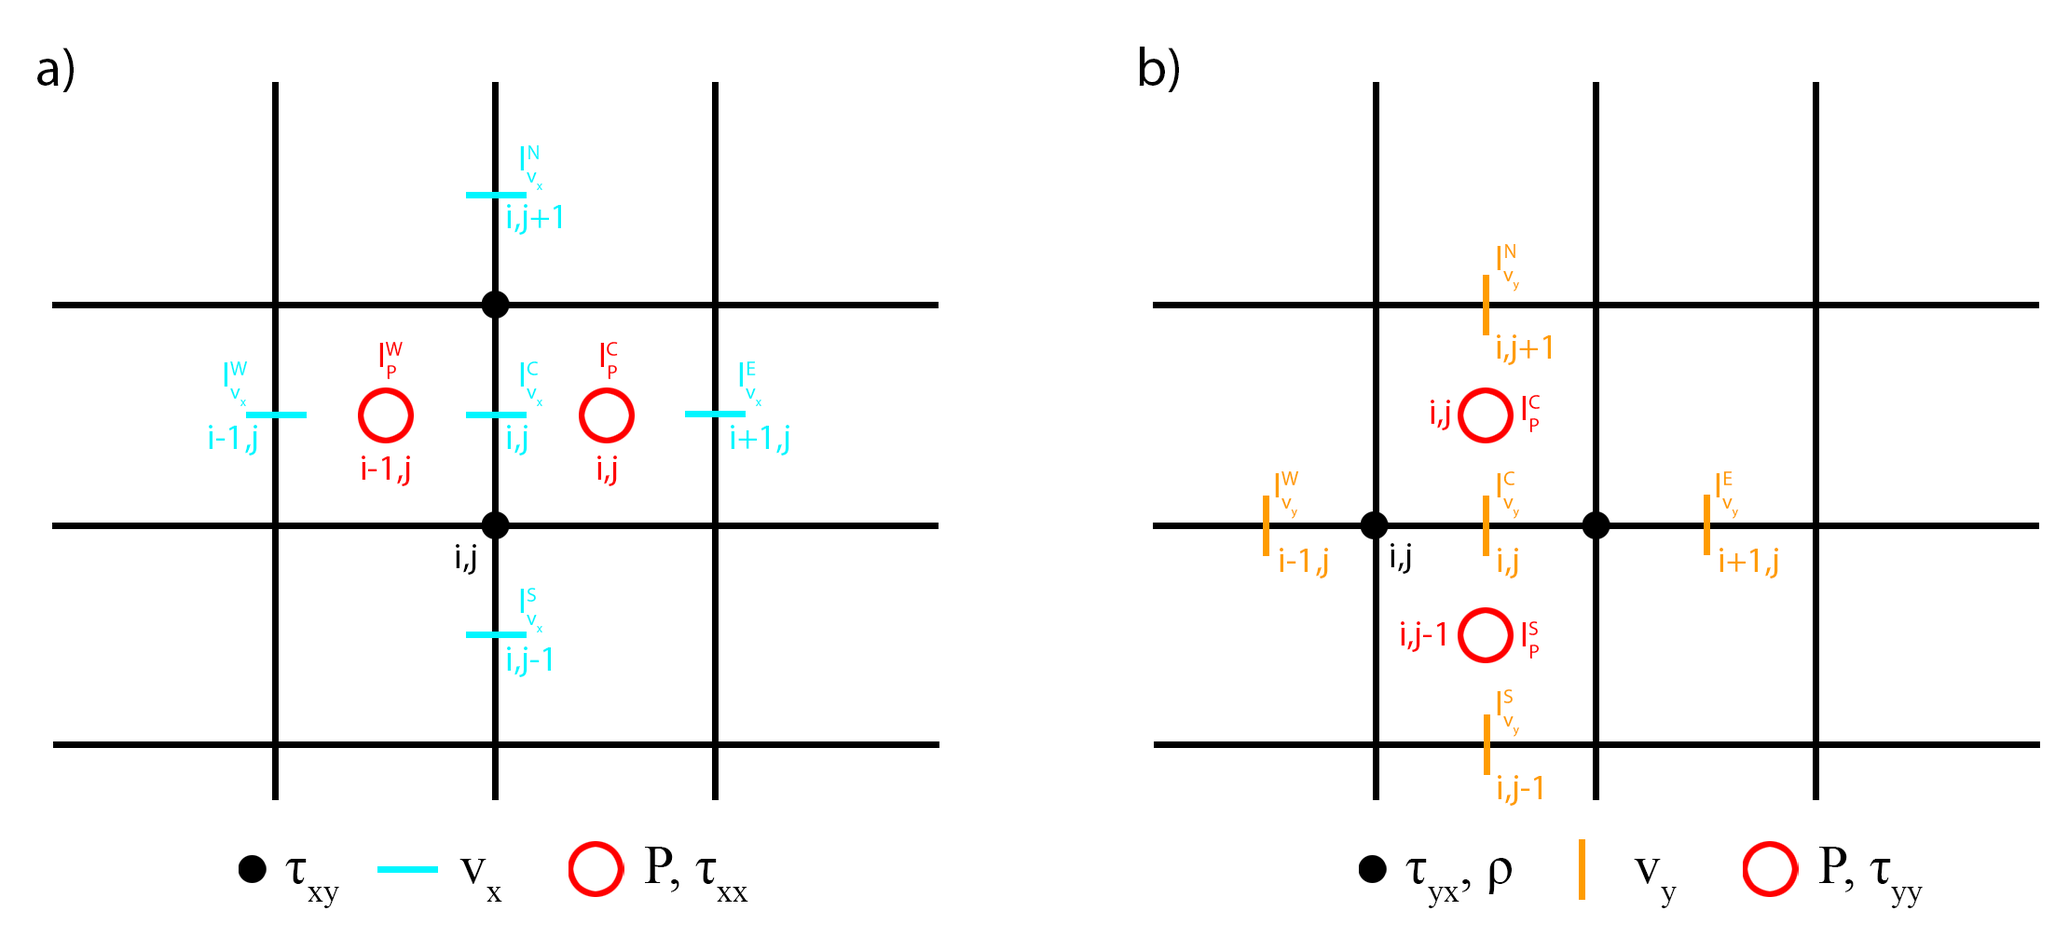
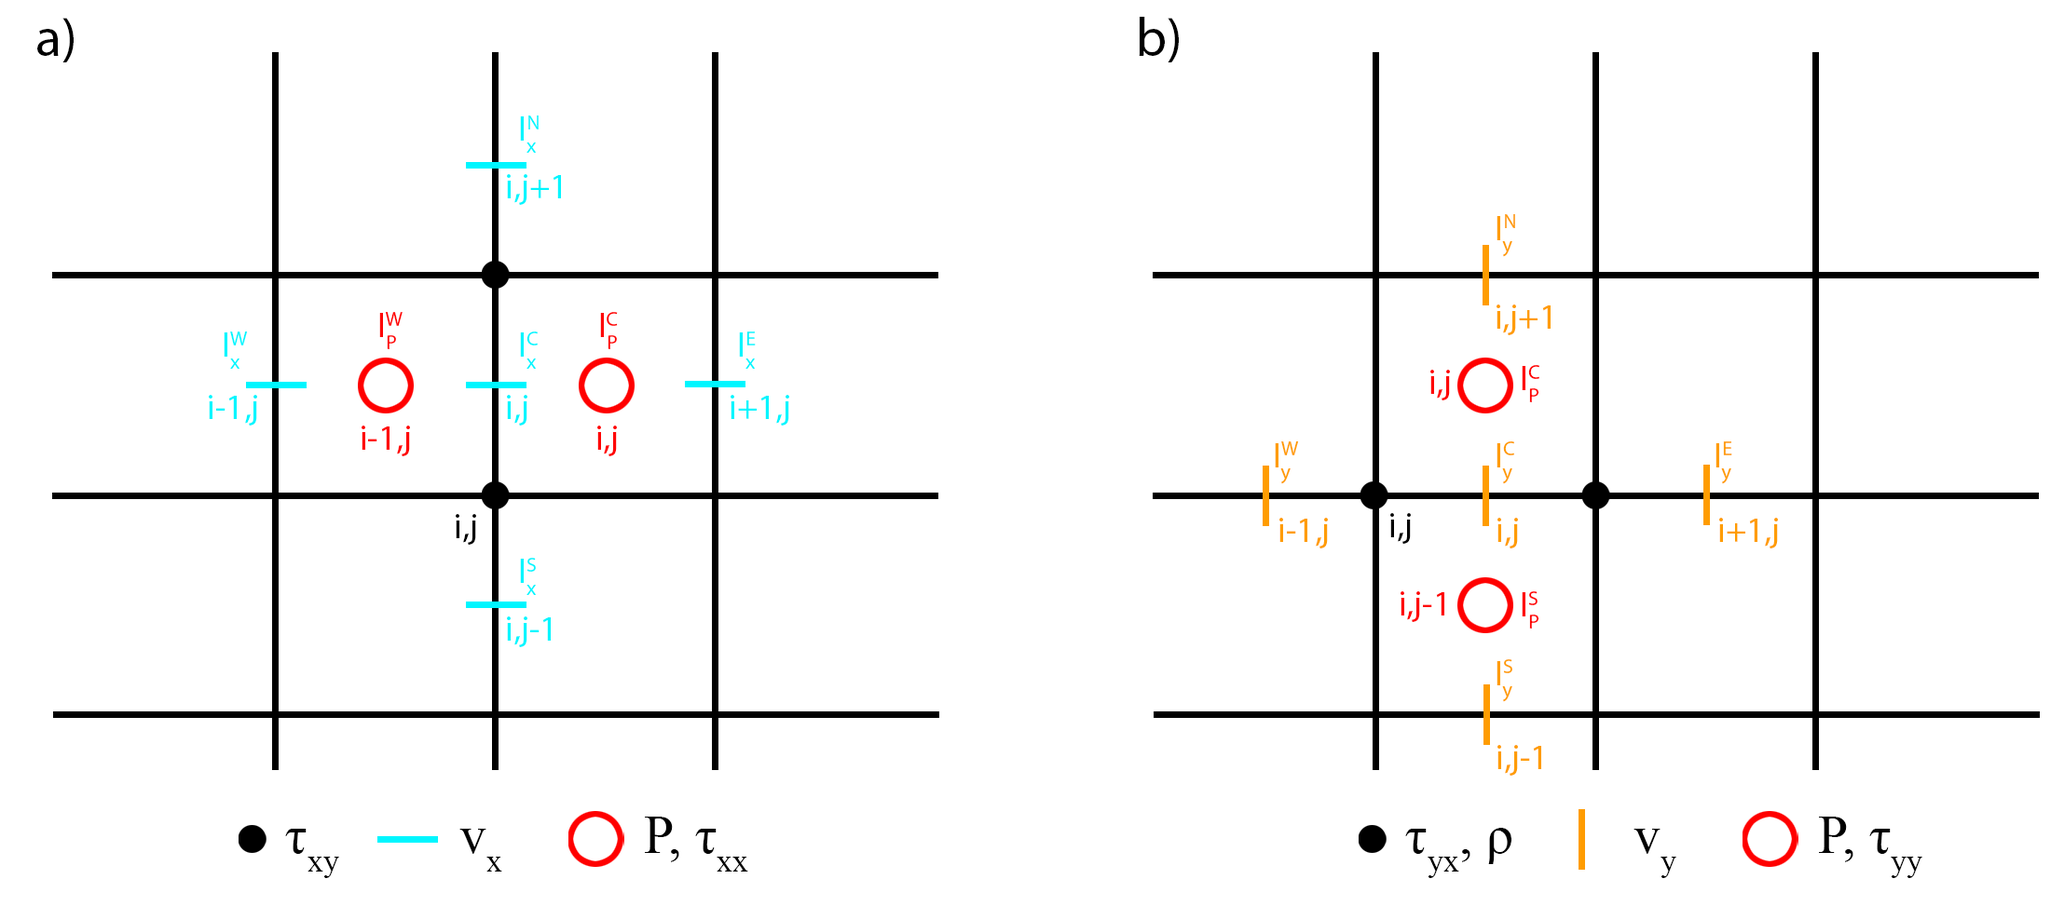
minor update

diff --git a/docs/src/man/MomentumTwoD.md b/docs/src/man/MomentumTwoD.md
@@ -6,30 +6,19 @@ $\begin{equation}
 0 = -\frac{\partial{P}}{\partial{x_i}} + \frac{\partial{\tau_{ij}}}{\partial{x_j}} + \rho g_i, 
 \end{equation}$
 
-where 
-
-- $P$ is the pressure [Pa], 
-- $\rho$ is the density [kg/m³], 
-- $g_i$ is the gravitational acceleration [m/s²], 
-- $\frac{\partial}{\partial x_i}$ is the spatial derivative in the $x_i$-direction, and 
-- $\tau_{ij}$ is the deviatoric stress tensor [Pa], defined as:
+where $P$ is the pressure [Pa], $\rho$ is the density [kg/m³], $g_i$ is the gravitational acceleration [m/s²], $\frac{\partial}{\partial x_i}$ is the spatial derivative in the $x_i$-direction, and $\tau_{ij}$ is the deviatoric stress tensor [Pa], defined as:
 
 $\begin{equation}
 \tau_{ij} = 2\eta \dot{\varepsilon}_{ij}, 
 \end{equation}$
 
-where 
-
-- $\eta$ is the dynamic viscosity [Pa·s], and 
-- $\dot{\varepsilon}_{ij}$ is the strain-rate tensor [1/s], given by:
+where $\eta$ is the dynamic viscosity [Pa·s], and $\dot{\varepsilon}_{ij}$ is the strain-rate tensor [1/s], given by:
 
 $\begin{equation}
 \dot{\varepsilon}_{ij} = \frac{1}{2} \left( \frac{\partial{v_i}}{\partial{x_j}} + \frac{\partial{v_j}}{\partial{x_i}} \right),
 \end{equation}$
 
-where 
-
-- $v_i$ is the velocity [m/s] in the $i$-th direction.
+where $v_i$ is the velocity [m/s] in the $i$-th direction.
 
 The Stokes equation yields two equations for the three unknowns $v_x$, $v_y$, and $P$. An additional equation is therefore required: the mass conservation equation.
 
@@ -45,36 +34,34 @@ To numerically solve Equations (1) and (4), the spatial domain must be discretiz
 
 ![MomentumGrid](../assets/MomentumGrid.png)
 
-**Figure 1. Staggered finite difference grid for the momentum equation and mass conservation equation.** The horizontal and vertical velocities require *ghost nodes* at the North, South, East, and West boundaries, respectively.
+**Figure 1. Staggered finite difference grid for the momentum and mass conservation equation.** The horizontal and vertical velocities require *ghost nodes* at the North, South, East, and West boundaries, respectively.
 
-A staggered grid enables conservation of stress between adjacent grid points and requires careful placement of the associated variables. Each equation is evaluated at the central node of its respective variable grid, requiring values from neighboring nodes defined by the numerical stencil. The locations of these points in a finite difference scheme are determined by a numerical stencil. 
+A staggered grid enables conservation of stress between adjacent grid points and requires careful placement of the associated variables. Each equation is evaluated at the central node of its respective variable grid, requiring values from neighboring nodes defined by the numerical stencil. The locations of these points in a finite difference scheme are determined by a numerical stencil. Thus, care needs to be taken generating the index for the variables. For the 2D Stokes equation in combination with the 2D mass conservation equation, different numerical stencils need to be considered, especially for cases of constant and variable viscosity. The stencils for each equation assuming constant or variable viscosity are discussed in more detail below. The spatial discretization relies on central finite differences to approximate both the velocity and pressure gradients.
 
-For the 2D Stokes equation in combination with the 2D mass conservation equation, different numerical stencils need to be considered, especially for cases of constant and variable viscosity. The stencils for each equation assuming constant or variable viscosity are discussed in more detail below. The spatial discretization relies on central finite differences to approximate both the velocity and pressure gradients.
-
-The indices of the adjacent points, which determine the positions of the coefficients in the coefficient matrix, can be expressed using the local indices $i$ and $j$ of each numerical grid. Because a staggered grid is used, each variable field ($v_x$, $v_y$, $P$, $\tau_{ij}$, $\eta$, and $\rho$) is defined on its own grid and therefore possesses its own local indices $(i,j)$ and a variable-specific global index. The local indices describe the position of the computational node of each corresponding variable grid in the horizontal and vertical directions, respectively. The global indices assume a horizontal numbering through the model domain; that is, the numbering proceeds row by row from the bottom to the top. The index for the adjacent centroid points follows the indexing convention described in the [2D heat diffusion equation](./DiffTwoD.md). 
+The indices of the adjacent points, which determine the positions of the coefficients in the coefficient matrix, can be expressed using the local indices $i$ and $j$ of each numerical grid. Because a staggered grid is used, each variable field ($v_x$, $v_y$, $P$, $\tau_{ij}$, $\eta$, and $\rho$) is defined on its own grid and therefore possesses its own local indices $(i,j)$ and a variable-specific global index. The local indices describe the position of the computational node of each corresponding variable grid in the horizontal and vertical directions, respectively. The global index assumes a horizontal numbering through the model domain; that is, the numbering proceeds row by row from the bottom to the top. The indices for the adjacent centroid points follows the indexing convention described in the [2D heat diffusion equation](./DiffTwoD.md). 
 
 For clarity, two types of global indices are used below:
 
 - variable-specific global indices, which number the nodes of a single grid (e.g. centroids or vertices), 
 - system global indices, which number the unknowns in the assembled linear system.
 
-The variable-specific global indices indicate the position relative to the central reference point (e.g., $N$, $S$).
+The variable-specific global index indicates the position relative to the central reference point (e.g., $N$, $S$). 
 
-The global index for density is defined by consecutively numbering the centroids: 
+The global index for density, for example, is defined by consecutively numbering the centroids: 
 
 $\begin{equation}
 I^\textrm{C}_c = \left(j-1\right) nc_x + i, 
 \end{equation}$
 
-where $i$ and $j$ are the local indices in the horizontal and vertical direction, respectively, and $nc_x$ is the total number of centroids in the horizontal direction. Here, it is important to distinguish between the centroid index used for density and the system index used for pressure, because pressure is part of the consecutively numbered unknowns in the assembled system of equations (see below). 
+where $nc_x$ is the total number of centroids in the horizontal direction. Here, it is important to distinguish between the centroid index used for density and the system global index used for pressure, because pressure is part of the consecutively numbered unknowns in the assembled system of equations (see below). 
 
-The global index for the shear stress is defined by consecutively numbering the vertices:
+The global index for the shear stress, for examples, is defined by consecutively numbering the vertices:
 
 $\begin{equation}
 I^\textrm{C}_v = \left(j-1\right) nv_x + i,
 \end{equation}$
 
-where $i$ and $j$ are the local indices in the horizontal and vertical direction, respectively, and  $nv_x$ is the total number of vertices in the horizontal direction. 
+where $nv_x$ is the total number of vertices in the horizontal direction. 
 
 The global indexing for the unknown variables in the system of equations proceeds by:
 
@@ -82,7 +69,7 @@ The global indexing for the unknown variables in the system of equations proceed
 
 2. Followed by the $y$-component of momentum (unknown $v_y$),
 
-3. And finally the mass conservation equations (unknown $P$).
+3. And finally the mass conservation equation (unknown $P$).
 
 The numbering $I$ for each equation is then defined as: 
 
@@ -106,7 +93,7 @@ I^\textrm{C}_{p} = \left(nv_x \cdot nc_y + nc_x \cdot nv_y + 1\right) : \left(nv
 
 This results in a consecutive global numbering of the system of equations for the $x$- and $y$-component of the momentum and the mass conservation equation. Each discretized equation corresponds to a row $I^\textrm{C}_{x,y,p}$ in the coefficient matrix. 
 
-> Note: The index $I^\textrm{C}_{x,y,p}$ for the system of equations is not the same as the consecutive numbering of the velocity and pressure nodes $I^j$, which only considers the global numbering for one single variable. 
+> Note: The index $I^\textrm{C}_{x,y,p}$ for the system of equations is not the same as the consecutive numbering of the velocity and pressure nodes $I^\textrm{C}$, which only considers the global numbering for one single variable. 
 
 The nonzero entries within a given matrix row appear at column positions corresponding to the neighboring variables involved in the stencil. These column indices are denoted by $I^k_{x,y,mc}$, where $k \in \{\textrm{S}, \textrm{SW}, \textrm{SE}, \textrm{W}, \textrm{C}, \textrm{E}, \textrm{NW}, \textrm{NE}, \textrm{N}\}$. The column index of each coefficient is computed relative to the central row index $I^\textrm{C}_{x,y,p}$. Thereby, the coefficient indices slightly vary for constant and variable viscosity cases. Note that cross terms involving $v_y$ and $v_x$ are indexed using the $y$- and $x$-component system indices, reflecting the staggered grid arrangement.
 
@@ -494,7 +481,7 @@ $\begin{equation}\begin{gather*}
 Reorganized:
 
 $\begin{equation}\begin{gather*}
-& C_PP_{I^\textrm{C}_p}+S_PP_{I^\textrm{S}_p} + \\ & S_yv_{y,I^\textrm{S}_y}+SW_yv_{x,I^\textrm{SW}_y}+SE_yv_{x,I^\textrm{SE}_y}+W_yv_{y,I^\textrm{W}_y}+ \\ & C_yv_{y,I^\textrm{C}_y} + \\ & E_yv_{y,I^\textrm{E}_y} + NW_yv_{x,I^\textrm{NW}_y} + NE_yv_{x,I^\textrm{NE}_y} + N_yv_{y,I^\textrm{N}_y} = \\ & -\frac{\rho_{I^\textrm{C}_c}+\rho_{I^\textrm{S}_c}}{2} g_y, 
+& S_PP_{I^\textrm{S}_p} +C_PP_{I^\textrm{C}_p}+ \\ & S_yv_{y,I^\textrm{S}_y}+SW_yv_{x,I^\textrm{SW}_y}+SE_yv_{x,I^\textrm{SE}_y}+W_yv_{y,I^\textrm{W}_y}+ \\ & C_yv_{y,I^\textrm{C}_y} + \\ & E_yv_{y,I^\textrm{E}_y} + NW_yv_{x,I^\textrm{NW}_y} + NE_yv_{x,I^\textrm{NE}_y} + N_yv_{y,I^\textrm{N}_y} = \\ & -\frac{\rho_{I^\textrm{C}_c}+\rho_{I^\textrm{S}_c}}{2} g_y, 
 \end{gather*}\end{equation}$
 
 with coefficients:
@@ -560,7 +547,7 @@ where
 - $\mathbf{x}$ is the solution vector, and 
 - $\mathbf{b}$ is the known right-hand side.
 
-The solution vector contains the horizontal and vertical velocity as well as the pressure field, whose ordering follows the global numbering of $I^\textrm{C}_x$, $I^\textrm{C}_y$, and $I^\textrm{C}_p$ as defined in Equations (7)–(9). The right-hand side contains the buoyancy term for the $y$-component of the momentum equation. Depending on the chosen solution strategy, it may also include contributions from the boundary conditions. 
+The solution vector contains the horizontal and vertical velocity as well as the pressure field, whose ordering follows the system global numbering of $I^\textrm{C}_x$, $I^\textrm{C}_y$, and $I^\textrm{C}_p$ as defined in Equations (7)-(9). The right-hand side contains the buoyancy term for the $y$-component of the momentum equation. Depending on the chosen solution strategy, it may also include contributions from the boundary conditions. 
 
 The coefficient matrix $\mathbf{K_{I^\textrm{C}_{i},I^k_{j}}}$ varies depending on the state of the viscosity. The structure of the coefficient matrix for a certain grid resolution and boundary condition is shown in Figures (5) and (6).  
 
@@ -605,7 +592,7 @@ Or in the terms of the unknown variables:
 *$x$-component*
 
 $\begin{equation}\begin{gather*}
-& r_{I^\textrm{C}_x} = C_pP_{I^{\textrm{C}}_{p}} + W_pP_{I^{\textrm{W}}_{p}} + \\ & S_xv_{x,I^{\textrm{S}}_{x}} +  W_xv_{x,I^{\textrm{W}}_{x}} + C_xv_{x,I^{\textrm{C}}_{x}} + E_xv_{x,I^{\textrm{E}}_{x}} + N_xv_{x,I^{\textrm{N}}_{x}}, 
+& r_{I^\textrm{C}_x} = W_pP_{I^{\textrm{W}}_{p}} + C_pP_{I^{\textrm{C}}_{p}} + \\ & S_xv_{x,I^{\textrm{S}}_{x}} +  W_xv_{x,I^{\textrm{W}}_{x}} + C_xv_{x,I^{\textrm{C}}_{x}} + E_xv_{x,I^{\textrm{E}}_{x}} + N_xv_{x,I^{\textrm{N}}_{x}}, 
 \end{gather*}\end{equation}$
 
 *$y$-component*
@@ -619,13 +606,13 @@ $\begin{equation}\begin{gather*}
 *$x$-component* 
 
 $\begin{equation}\begin{gather*}
-& r_{I^\textrm{C}_x} = W_PP_{I^\textrm{W}_p}+C_PP_{I^\textrm{C}_p} + \\ &  S_xv_{x,I^\textrm{S}_x}+SW_xv_{y,I^\textrm{SW}_x}+SE_xv_{y,I^\textrm{SE}_x}+W_xv_{x,I^\textrm{W}_x}+ C_xv_{x,I^\textrm{C}_x} + E_xv_{x,I^\textrm{E}_x} + NW_xv_{y,I^\textrm{NW}_x} + NE_xv_{y,I^\textrm{NE}_x} + N_xv_{x,I^\textrm{N}_x}, 
+& r_{I^\textrm{C}_x} = W_PP_{I^\textrm{W}_p}+C_PP_{I^\textrm{C}_p} + \\ &  S_xv_{x,I^\textrm{S}_x}+SW_xv_{y,I^\textrm{SW}_x}+SE_xv_{y,I^\textrm{SE}_x}+W_xv_{x,I^\textrm{W}_x}+ \\ & C_xv_{x,I^\textrm{C}_x} + E_xv_{x,I^\textrm{E}_x} + NW_xv_{y,I^\textrm{NW}_x} + NE_xv_{y,I^\textrm{NE}_x} + N_xv_{x,I^\textrm{N}_x}, 
 \end{gather*}\end{equation}$
 
 *$y$-component* 
 
 $\begin{equation}\begin{gather*}
-& r_{I^\textrm{C}_y} = C_PP_{I^\textrm{C}_p}+S_PP_{I^\textrm{S}_p} + \\ & S_yv_{y,I^\textrm{S}_y}+SW_yv_{x,I^\textrm{SW}_y}+SE_yv_{x,I^\textrm{SE}_y}+W_yv_{y,I^\textrm{W}_y}+ C_yv_{y,I^\textrm{C}_y} + E_yv_{y,I^\textrm{E}_y} + NW_yv_{x,I^\textrm{NW}_y} + NE_yv_{x,I^\textrm{NE}_y} + N_yv_{y,I^\textrm{N}_y} + \frac{\rho_{I^\textrm{C}_c}+\rho_{I^\textrm{S}_c}}{2} g_y, 
+& r_{I^\textrm{C}_y} = S_PP_{I^\textrm{S}_p} +C_PP_{I^\textrm{C}_p}+ \\ & S_yv_{y,I^\textrm{S}_y}+SW_yv_{x,I^\textrm{SW}_y}+SE_yv_{x,I^\textrm{SE}_y}+W_yv_{y,I^\textrm{W}_y}+ \\ & C_yv_{y,I^\textrm{C}_y} + E_yv_{y,I^\textrm{E}_y} + NW_yv_{x,I^\textrm{NW}_y} + NE_yv_{x,I^\textrm{NE}_y} + N_yv_{y,I^\textrm{N}_y} + \frac{\rho_{I^\textrm{C}_c}+\rho_{I^\textrm{S}_c}}{2} g_y, 
 \end{gather*}\end{equation}$
 
 **Continuity Equation**
@@ -811,7 +798,7 @@ $\begin{equation}C_x = -\frac{2}{\Delta{x^2}} \left( \eta_{c,I^{\textrm{C}}_c} +
 *North*
 
 $\begin{equation}\begin{gather*}
-& r_{I^{\textrm{C}}_x} = W_PP_{I^{\textrm{W}}_p}+C_PP_{I^{\textrm{C}}_p}+\\ & S_xv_{x,I^{\textrm{S}}_x}+SW_xv_{y,I^{\textrm{W}}_x}+SE_xv_{y,I^{\textrm{C}}_x}+W_xv_{x,I^{\textrm{W}}_x}+ C_xv_{x,I^{\textrm{C}}_x}+ E_xv_{x,I^{\textrm{E}}_x}+NW_xv_{y,I^{\textrm{NW}}_x}+NE_xv_{y,I^{\textrm{NE}}_x},
+& r_{I^{\textrm{C}}_x} = W_PP_{I^{\textrm{W}}_p}+C_PP_{I^{\textrm{C}}_p}+\\ & S_xv_{x,I^{\textrm{S}}_x}+SW_xv_{y,I^{\textrm{W}}_x}+SE_xv_{y,I^{\textrm{C}}_x}+W_xv_{x,I^{\textrm{W}}_x}+ \\ & C_xv_{x,I^{\textrm{C}}_x}+ E_xv_{x,I^{\textrm{E}}_x}+NW_xv_{y,I^{\textrm{NW}}_x}+NE_xv_{y,I^{\textrm{NE}}_x},
 \end{gather*}\end{equation}$
 
 with 
@@ -831,7 +818,7 @@ and all other coefficients are set to zero.
 *West* 
 
 $\begin{equation}\begin{gather*}
-& r_{I^{\textrm{C}}_y} = C_PP_{I^{\textrm{C}}_p}+S_PP_{I^{\textrm{S}}_p} + \\ & S_yv_{y,I^{\textrm{S}}_y} + SW_yv_{x,I^{\textrm{SW}}_y} + SE_yv_{x,I^{\textrm{SE}}_y} + C_yv_{y,I^{\textrm{C}}_y} + E_yv_{y,I^{\textrm{E}}_y} + NW_yv_{x,I^{\textrm{NW}}_y} + NE_yv_{x,I^{\textrm{NE}}_y} + N_yv_{y,I^{\textrm{N}}_y} + \frac{\rho_{I^{\textrm{C}}_c}+\rho_{I^{\textrm{S}}_c}}{2} g_y, 
+& r_{I^{\textrm{C}}_y} = C_PP_{I^{\textrm{C}}_p}+S_PP_{I^{\textrm{S}}_p} + \\ & S_yv_{y,I^{\textrm{S}}_y} + SW_yv_{x,I^{\textrm{SW}}_y} + SE_yv_{x,I^{\textrm{SE}}_y} + \\ & C_yv_{y,I^{\textrm{C}}_y} + E_yv_{y,I^{\textrm{E}}_y} + NW_yv_{x,I^{\textrm{NW}}_y} + NE_yv_{x,I^{\textrm{NE}}_y} + N_yv_{y,I^{\textrm{N}}_y} + \frac{\rho_{I^{\textrm{C}}_c}+\rho_{I^{\textrm{S}}_c}}{2} g_y, 
 \end{gather*}\end{equation}$
 
 with 
@@ -841,7 +828,7 @@ $\begin{equation}C_y = -\frac{2}{\Delta{y^2}}\left(\eta_{c,I^{\textrm{C}}_c}+\et
 *East* 
 
 $\begin{equation}\begin{gather*}
-& r_{I^{\textrm{C}}_y} = C_PP_{I^{\textrm{C}}_p} + S_PP_{I^{\textrm{S}}_p} + \\ & S_yv_{y,I^{\textrm{S}}_y} + SW_yv_{x,I^{\textrm{SW}}_y} + SE_yv_{x,I^{\textrm{SE}}_y} + W_yv_{y,I^{\textrm{W}}_y} + C_yv_{y,I^{\textrm{C}}_y} + NW_yv_{x,I^{\textrm{NW}}_y} + NE_yv_{x,I^{\textrm{NE}}_y} + N_yv_{y,I^{\textrm{N}}_y} + \frac{\rho_{I^{\textrm{C}}_c}+\rho_{I^{\textrm{S}}_c}}{2} g_y, 
+& r_{I^{\textrm{C}}_y} = C_PP_{I^{\textrm{C}}_p} + S_PP_{I^{\textrm{S}}_p} + \\ & S_yv_{y,I^{\textrm{S}}_y} + SW_yv_{x,I^{\textrm{SW}}_y} + SE_yv_{x,I^{\textrm{SE}}_y} + W_yv_{y,I^{\textrm{W}}_y} + \\ & C_yv_{y,I^{\textrm{C}}_y} + NW_yv_{x,I^{\textrm{NW}}_y} + NE_yv_{x,I^{\textrm{NE}}_y} + N_yv_{y,I^{\textrm{N}}_y} + \frac{\rho_{I^{\textrm{C}}_c}+\rho_{I^{\textrm{S}}_c}}{2} g_y, 
 \end{gather*}\end{equation}$
 
 with 
@@ -865,7 +852,7 @@ Using equations (25)-(29), the coefficients of the equations adjacent to the cor
 *South*
 
 $\begin{equation}\begin{gather*}
-& r_{I^{\textrm{C}}_x} = W_PP_{I^{\textrm{W}}_p}+C_PP_{I^{\textrm{C}}_p}+ \\ & SW_xv_{y,I^{\textrm{SW}}_x}+SE_xv_{y,I^{\textrm{SE}}_x}+W_xv_{x,I^{\textrm{W}}_x}+ C_xv_{x,I^{\textrm{C}}_x}+ E_xv_{x,I^{\textrm{E}}_x}+NW_xv_{y,I^{\textrm{NW}}_x}+NE_xv_{y,I^{\textrm{NE}}_x}+N_xv_{x,I^{\textrm{N}}_x} + 2\frac{\eta_{v,I^{\textrm{C}}_v}}{\Delta{y^2}}V_{BC}^S,
+& r_{I^{\textrm{C}}_x} = W_PP_{I^{\textrm{W}}_p}+C_PP_{I^{\textrm{C}}_p}+ \\ & SW_xv_{y,I^{\textrm{SW}}_x}+SE_xv_{y,I^{\textrm{SE}}_x}+W_xv_{x,I^{\textrm{W}}_x}+ \\ & C_xv_{x,I^{\textrm{C}}_x}+ E_xv_{x,I^{\textrm{E}}_x}+NW_xv_{y,I^{\textrm{NW}}_x}+NE_xv_{y,I^{\textrm{NE}}_x}+N_xv_{x,I^{\textrm{N}}_x} + 2\frac{\eta_{v,I^{\textrm{C}}_v}}{\Delta{y^2}}V_{BC}^S,
 \end{gather*}\end{equation}$
 
 with 
@@ -875,7 +862,7 @@ $\begin{equation}C_x = -\frac{2}{\Delta{x^2}}\left(\eta_{c,I^{\textrm{C}}_c}+\et
 *North* 
 
 $\begin{equation}\begin{gather*}
-& r_{I^{\textrm{C}}_x} = W_PP_{I^{\textrm{W}}_p}+C_PP_{I^{\textrm{C}}_p}+ \\ & S_xv_{x,I^{\textrm{S}}_x}+SW_xv_{y,I^{\textrm{SW}}_x}+SE_xv_{y,I^{\textrm{SE}}_x}+W_xv_{x,I^{\textrm{W}}_x}+ C_xv_{x,I^{\textrm{C}}_x}+ E_xv_{x,I^{\textrm{E}}_x}+NW_xv_{y,I^{\textrm{NW}}_x}+NE_xv_{y,I^{\textrm{NE}}_x} + 2\frac{\eta_{v,I^{\textrm{N}}_v}}{\Delta{y^2}}V_{BC}^N,
+& r_{I^{\textrm{C}}_x} = W_PP_{I^{\textrm{W}}_p}+C_PP_{I^{\textrm{C}}_p}+ \\ & S_xv_{x,I^{\textrm{S}}_x}+SW_xv_{y,I^{\textrm{SW}}_x}+SE_xv_{y,I^{\textrm{SE}}_x}+W_xv_{x,I^{\textrm{W}}_x}+ \\ & C_xv_{x,I^{\textrm{C}}_x}+ E_xv_{x,I^{\textrm{E}}_x}+NW_xv_{y,I^{\textrm{NW}}_x}+NE_xv_{y,I^{\textrm{NE}}_x} + 2\frac{\eta_{v,I^{\textrm{N}}_v}}{\Delta{y^2}}V_{BC}^N,
 \end{gather*}\end{equation}$
 
 with 
@@ -895,7 +882,7 @@ and all other coefficients are set to zero.
 *West* 
 
 $\begin{equation}\begin{gather*}
-& r_{I^{\textrm{C}}_y} = C_PP_{I^{\textrm{C}}_p} + S_PP_{I^{\textrm{S}}_p} + \\ & S_yv_{y,I^{\textrm{S}}_y} + SW_yv_{x,I^{\textrm{SW}}_y} + SE_yv_{x,I^{\textrm{SE}}_y} + C_yv_{y,I^{\textrm{C}}_y} + E_yv_{y,I^{\textrm{E}}_y} + NW_yv_{x,I^{\textrm{NW}}_y} + NE_yv_{x,I^{\textrm{NE}}_y} + N_yv_{y,I^{\textrm{N}}_y} + \frac{\rho_{I^{\textrm{C}}_c}+\rho_{I^{\textrm{S}}_c}}{2} g_y + 2\frac{\eta_{v,I^{\textrm{C}}_v}}{\Delta{x^2}}V_{BC}^W, 
+& r_{I^{\textrm{C}}_y} = C_PP_{I^{\textrm{C}}_p} + S_PP_{I^{\textrm{S}}_p} + \\ & S_yv_{y,I^{\textrm{S}}_y} + SW_yv_{x,I^{\textrm{SW}}_y} + SE_yv_{x,I^{\textrm{SE}}_y} + \\ & C_yv_{y,I^{\textrm{C}}_y} + E_yv_{y,I^{\textrm{E}}_y} + NW_yv_{x,I^{\textrm{NW}}_y} + NE_yv_{x,I^{\textrm{NE}}_y} + N_yv_{y,I^{\textrm{N}}_y} + \frac{\rho_{I^{\textrm{C}}_c}+\rho_{I^{\textrm{S}}_c}}{2} g_y + 2\frac{\eta_{v,I^{\textrm{C}}_v}}{\Delta{x^2}}V_{BC}^W, 
 \end{gather*}\end{equation}$
 
 with 
@@ -905,7 +892,7 @@ $\begin{equation}C_y = -\frac{2}{\Delta{y^2}}\left(\eta_{c,I^{\textrm{C}}_c}+\et
 *East*
 
 $\begin{equation}\begin{gather*}
-& r_{I^{\textrm{C}}_y} = C_PP_{I^{\textrm{C}}_p} + S_PP_{I^{\textrm{S}}_p} + \\ & S_yv_{y,I^{\textrm{S}}_y} + SW_yv_{x,I^{\textrm{SW}}_y} + SE_yv_{x,I^{\textrm{SE}}_y} + W_yv_{y,I^{\textrm{W}}_y} + C_yv_{y,I^{\textrm{C}}_y} + NW_yv_{x,I^{\textrm{NW}}_y} + NE_yv_{x,I^{\textrm{NE}}_y} + N_yv_{y,I^{\textrm{N}}_y} + \frac{\rho_{I^{\textrm{C}}_c}+\rho_{I^{\textrm{S}}_c}}{2} g_y + 2\frac{\eta_{v,I^{\textrm{E}}_v}}{\Delta{x^2}}V_{BC}^E, 
+& r_{I^{\textrm{C}}_y} = C_PP_{I^{\textrm{C}}_p} + S_PP_{I^{\textrm{S}}_p} + \\ & S_yv_{y,I^{\textrm{S}}_y} + SW_yv_{x,I^{\textrm{SW}}_y} + SE_yv_{x,I^{\textrm{SE}}_y} + W_yv_{y,I^{\textrm{W}}_y} + \\ & C_yv_{y,I^{\textrm{C}}_y} + NW_yv_{x,I^{\textrm{NW}}_y} + NE_yv_{x,I^{\textrm{NE}}_y} + N_yv_{y,I^{\textrm{N}}_y} + \frac{\rho_{I^{\textrm{C}}_c}+\rho_{I^{\textrm{S}}_c}}{2} g_y + 2\frac{\eta_{v,I^{\textrm{E}}_v}}{\Delta{x^2}}V_{BC}^E, 
 \end{gather*}\end{equation}$
 
 with 

diff --git a/docs/src/man/DiffMain.md b/docs/src/man/DiffMain.md
@@ -8,16 +8,14 @@ $\begin{equation}
 \left(\frac{\partial E}{\partial t} + v_j\frac{\partial{E}}{\partial{x_j}}\right) + \frac{\partial q_{i}}{\partial x_{i}} = \rho H,
 \end{equation}$
 
-where the internal energy is defined as $E = c_p \rho T$. Here
-
-* $c_p$ is the specific heat capacity [J/kg/K],
-* $\rho$ is the density [kg/m³],
-* $T$ is the temperature [K],
-* $t$ is time [s],
-* $v_j$ is the velocity [m/s] in direction $j$,
-* $q_i$ is the heat flux [W/m²] in direction $i$,
-* $\partial/\partial x_i$ denotes the spatial derivative in direction $i$, and
-* $H$ is the internal heat production per unit mass [W/kg].
+where the internal energy is defined as $E = c_p \rho T$. Here $c_p$ is the specific heat capacity [J/kg/K],
+$\rho$ is the density [kg/m³],
+$T$ is the temperature [K],
+$t$ is time [s],
+$v_j$ is the velocity [m/s] in direction $j$,
+$q_i$ is the heat flux [W/m²] in direction $i$,
+$\partial/\partial x_i$ denotes the spatial derivative in direction $i$, and
+$H$ is the internal heat production per unit mass [W/kg].
 
 Indices $i$ and $j$ denote spatial directions. Repeated indices follow Einstein summation notation, implying summation over spatial dimensions.
 

diff --git a/docs/src/man/MomentumOneD.md b/docs/src/man/MomentumOneD.md
@@ -8,11 +8,7 @@ $\begin{equation}
 0 = -\frac{\partial{P}}{\partial{x}} + \frac{\partial{\tau_{xy}}}{\partial{y}},
 \end{equation}$
 
-where  
-
-$P$ is the pressure [Pa],  
-$\frac{\partial}{\partial x_i}$ denotes the partial derivative in the $i$-th direction, and  
-$\tau_{xy}$ is the horizontal shear stress [Pa], defined as
+where $P$ is the pressure [Pa], $\frac{\partial}{\partial x_i}$ denotes the partial derivative in the $i$-th direction, and $\tau_{xy}$ is the horizontal shear stress [Pa], defined as
 
 $\begin{equation}
 \tau_{xy} = 2 \eta \dot{\varepsilon}_{xy},

diff --git a/docs/src/man/MomentumMain.md b/docs/src/man/MomentumMain.md
@@ -6,9 +6,7 @@ $\begin{equation}
 \rho \frac{D v_i}{Dt} = \frac{\partial{\sigma_{ij}}}{\partial{x_j}} + \rho g_i,
 \end{equation}$
 
-where  
-
-$\rho$ is the density [kg/m³],  
+where  $\rho$ is the density [kg/m³],  
 $v_i$ is the velocity component [m/s] in direction $i$,  
 $\sigma_{ij}$ is the Cauchy stress tensor [Pa],  
 $g_i$ is the gravitational acceleration [m/s²] in direction $i$, and  
